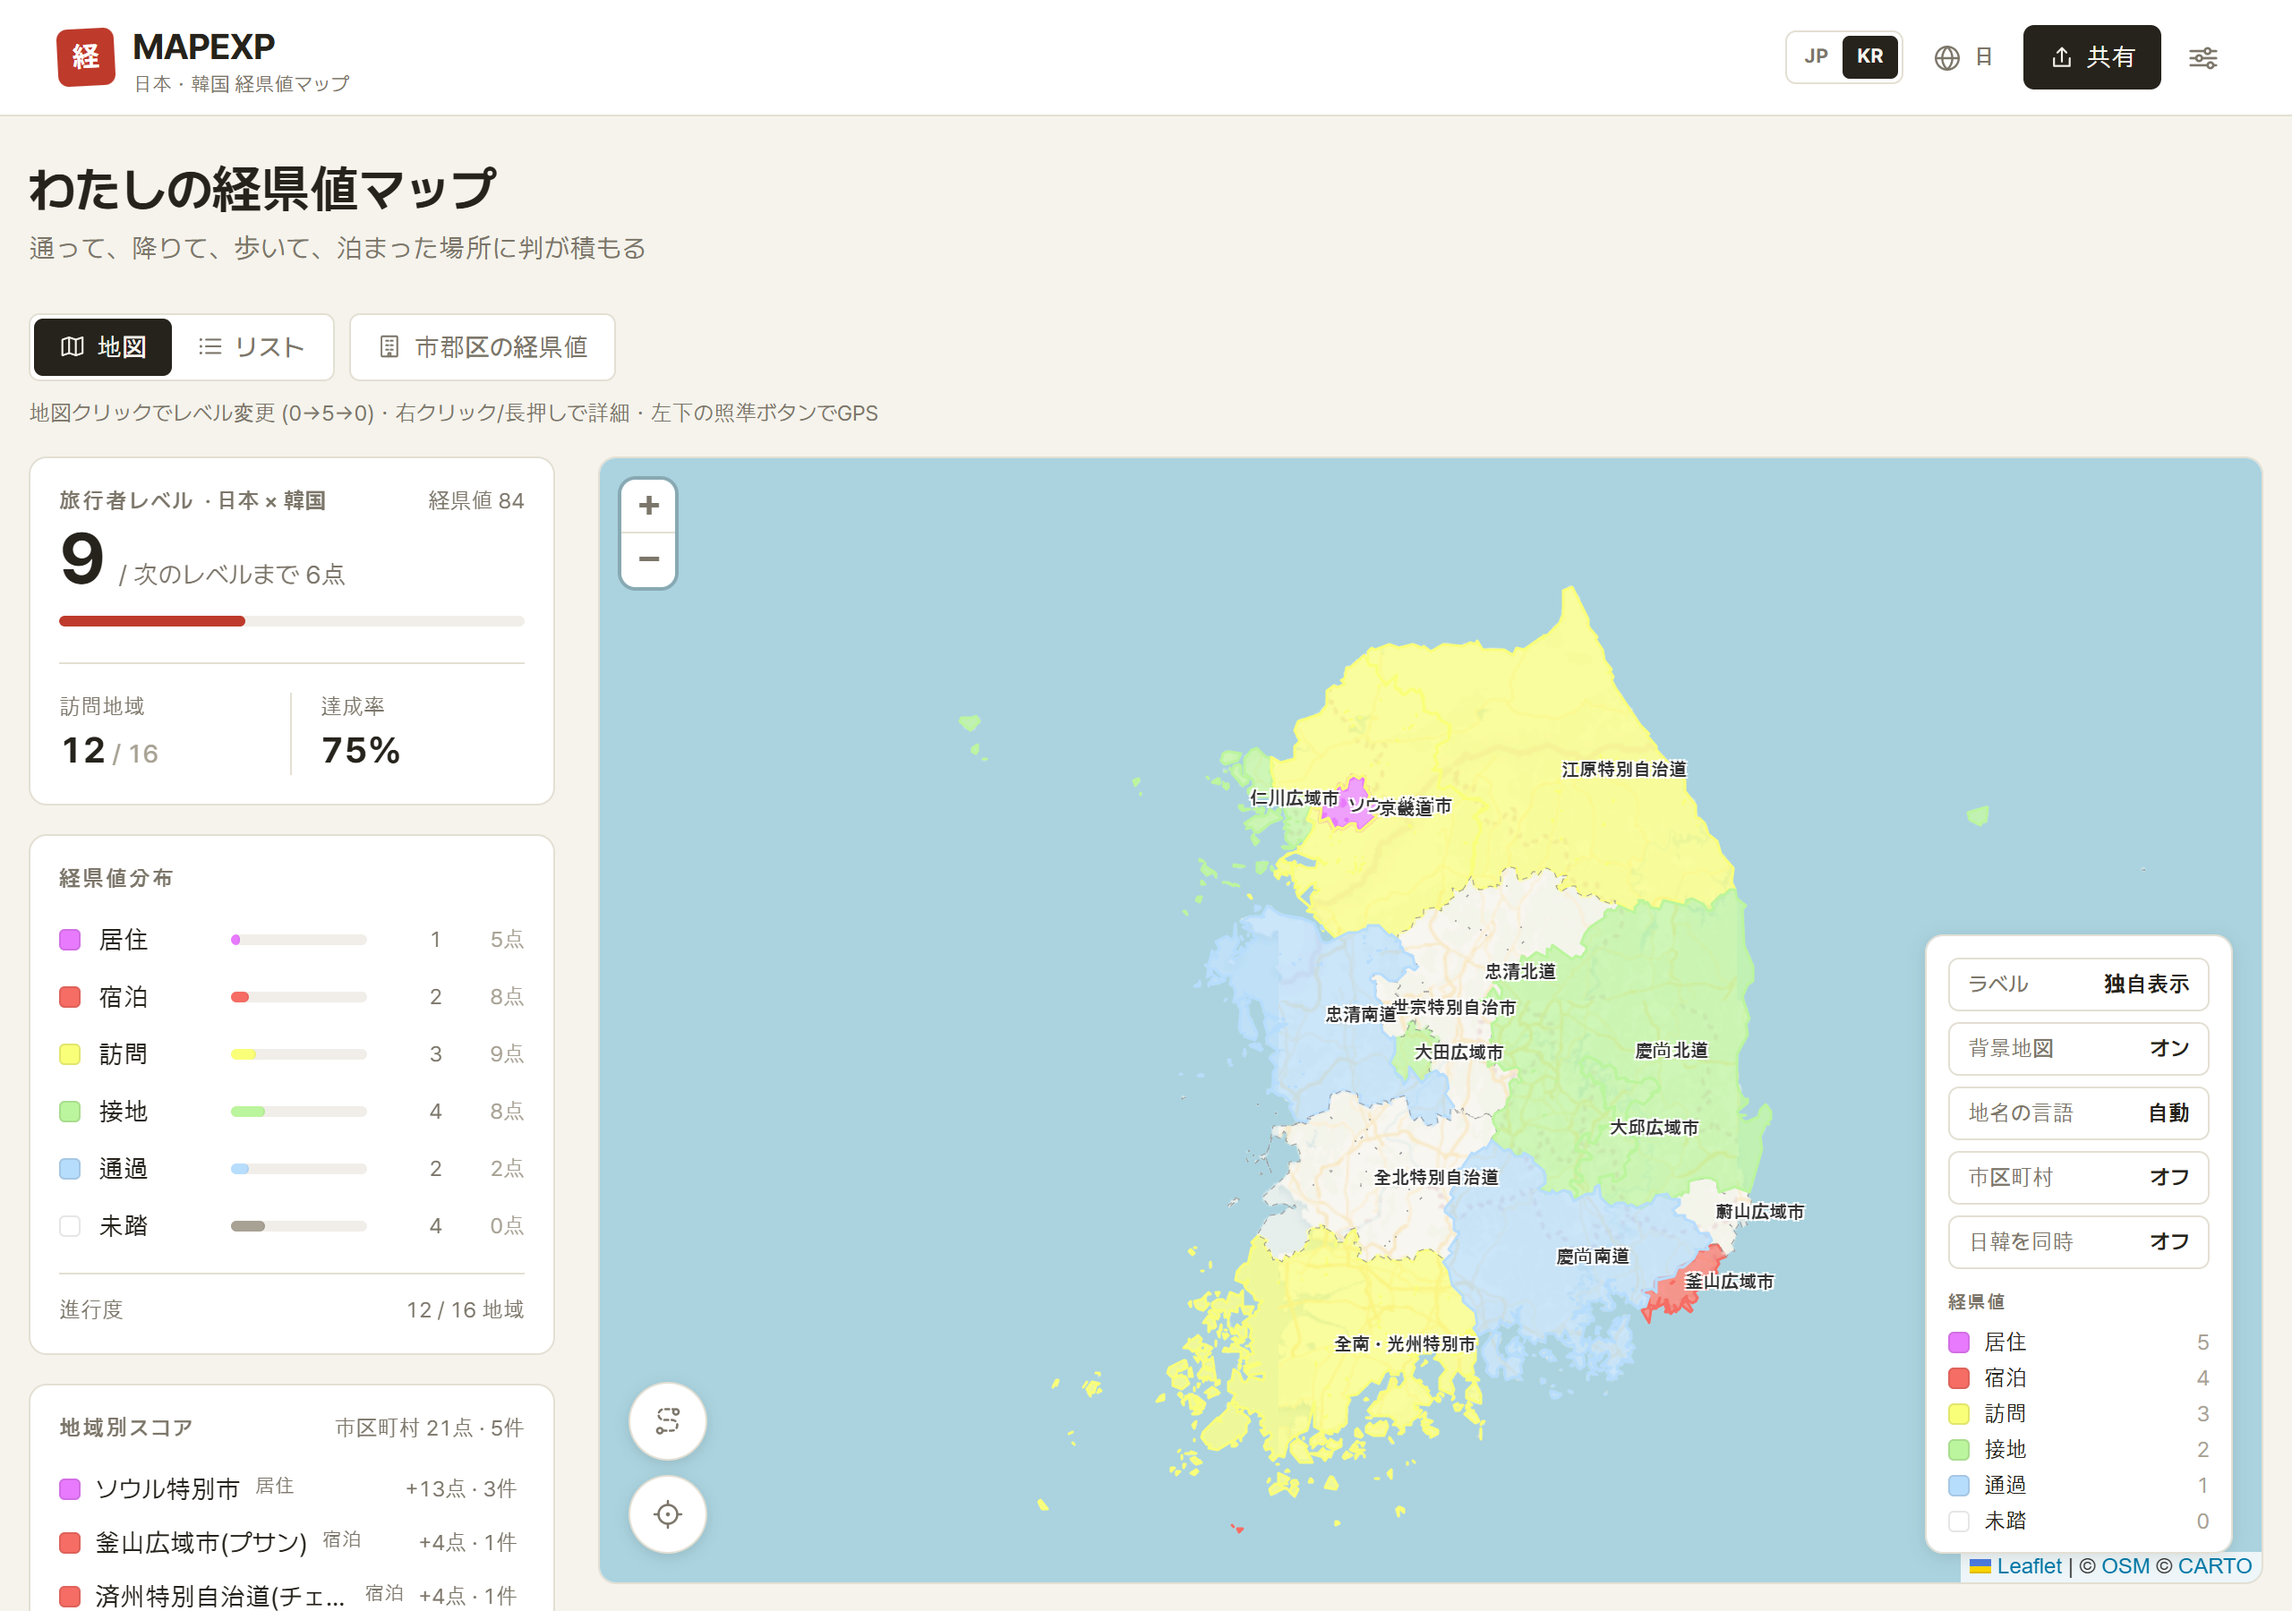
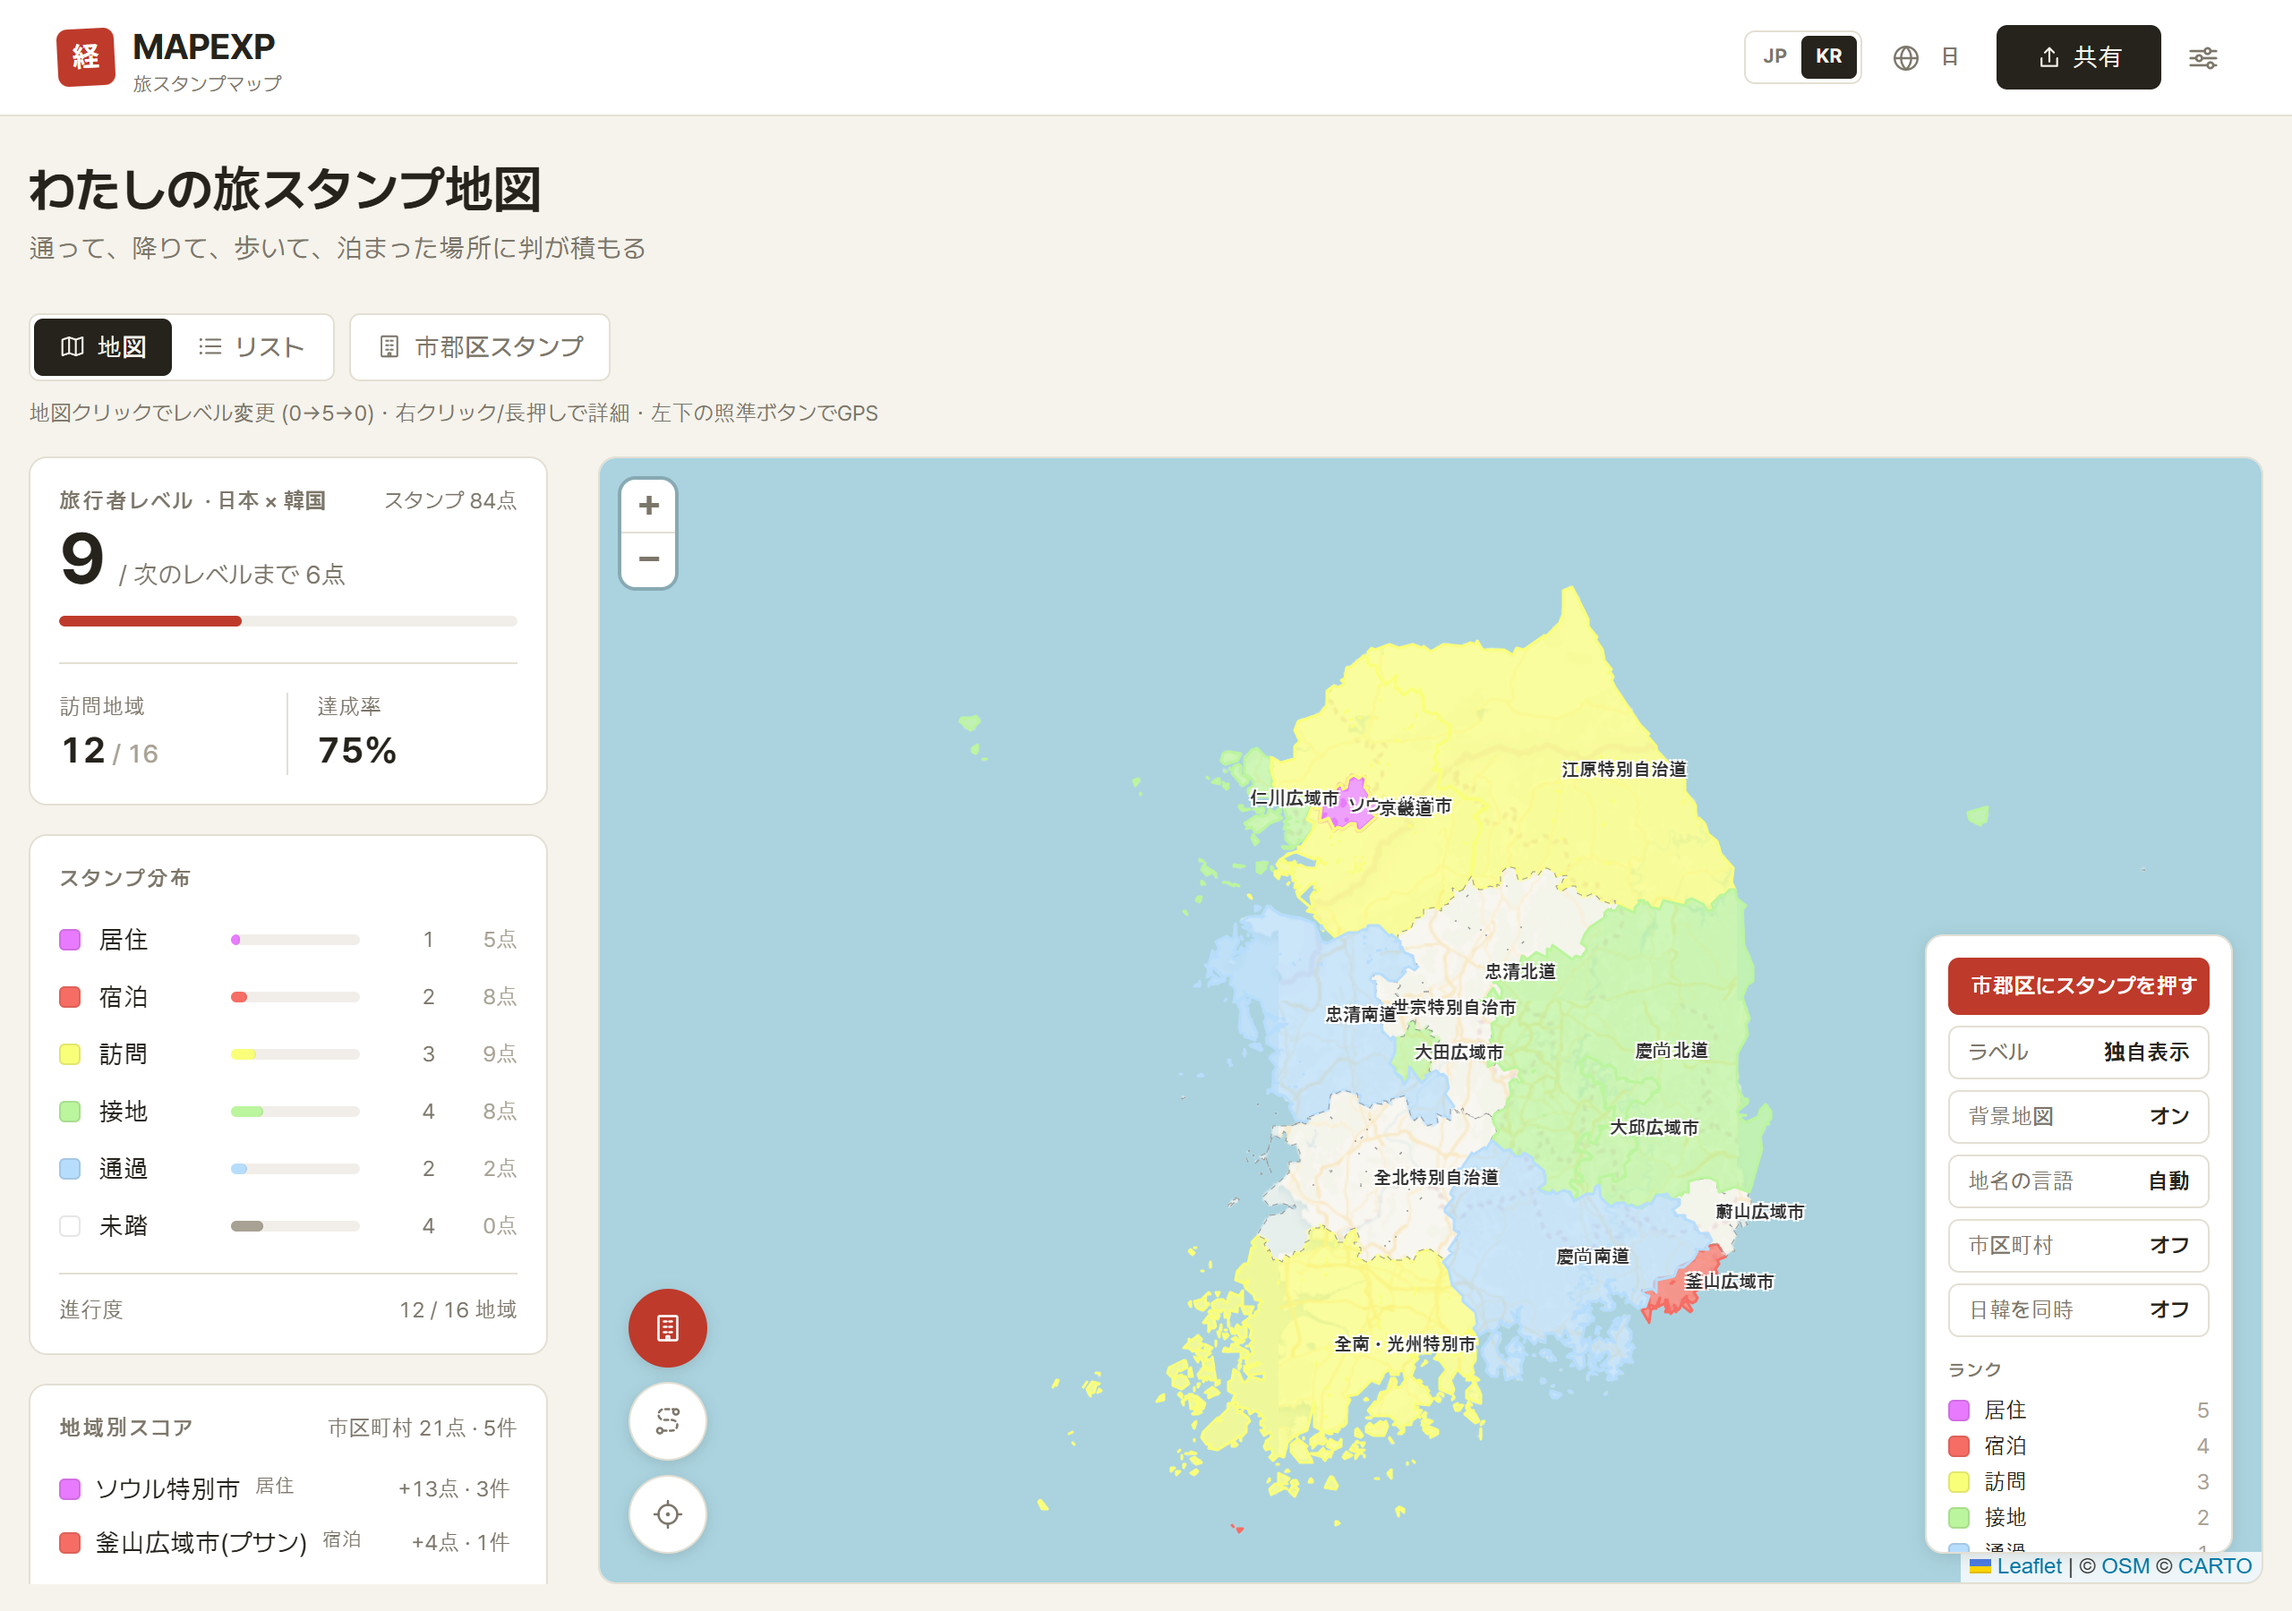
fix: 일본어 UI 용어를 旅スタンプ 계열로 교체 (経県値 상표 존중 - 크레딧의 지시적 사용만 유지)

diff --git a/src/lib/i18n.ts b/src/lib/i18n.ts
@@ -11,9 +11,10 @@ const LANG_INDEX: Record<Lang, number> = { ko: 0, en: 1, ja: 2 }
 
 const STRINGS = {
   // 공통 / 헤더 / 내비게이션
-  // 용어는 언어별 현지화: KR=도장(직관), JA=経県値(원조 문화·검색성), EN=stamps
+  // 용어는 언어별 현지화: KR=도장, JA=スタンプ, EN=stamps
+  // 주의: 経県値는 uub.jp 등록상표 - 서비스명/기능명으로 쓰지 않는다 (푸터의 출처 표기만 지시적 사용으로 유지)
   // 국가 병기는 브랜딩에서 제외 (중립 유지 - 표기 순서 등 불필요한 논쟁 여지 차단)
-  'app.subtitle': ['여행 도장 지도', 'Travel stamp map', '経県値マップ'],
+  'app.subtitle': ['여행 도장 지도', 'Travel stamp map', '旅スタンプマップ'],
   'nav.map': ['지도', 'Map', '地図'],
   'nav.list': ['리스트', 'List', 'リスト'],
   'nav.stats': ['통계', 'Stats', '統計'],
@@ -37,8 +38,8 @@ const STRINGS = {
   'level.3': ['방문', 'Visited', '訪問'],
   'level.4': ['숙박', 'Stayed', '宿泊'],
   'level.5': ['거주', 'Lived', '居住'],
-  // 각 지역 도장의 등급 (툴팁·지도 범례). JA는 경현치 문화 인지를 위해 経県値 유지
-  'level.term': ['등급', 'Grade', '経県値'],
+  // 각 지역 도장의 등급 (툴팁·지도 범례)
+  'level.term': ['등급', 'Grade', 'ランク'],
   // 등급 한 글자 (카드 도장용)
   'level.short.0': ['미', '·', '未'],
   'level.short.1': ['통', 'P', '通'],
@@ -55,15 +56,15 @@ const STRINGS = {
   'level.hint.5': ['살았다 (3개월 이상)', 'Lived there (3+ months)', '住んだ (3ヶ月以上)'],
 
   // 페이지 (데스크톱)
-  'page.title': ['나의 여행 도장', 'My Travel Stamps', 'わたしの経県値マップ'],
+  'page.title': ['나의 여행 도장', 'My Travel Stamps', 'わたしの旅スタンプ地図'],
   'page.tagline': [
     '지나가고, 내리고, 걷고, 묵은 자리마다 도장이 쌓입니다',
     'Every pass, stop, walk, and stay leaves a stamp',
     '通って、降りて、歩いて、泊まった場所に判が積もる',
   ],
-  // '관리'는 관리자 느낌이라 사용자 언어(도장 찍기)로 - ja는 経県値 문화 용어 활용
-  'page.manageMunis': ['{term} 도장', '{term}', '{term}の経県値'],
-  'page.manageMunisLong': ['{term} 도장 찍기', 'Stamp {term}', '{term}の経県値を付ける'],
+  // '관리'는 관리자 느낌이라 사용자 언어(도장 찍기)로
+  'page.manageMunis': ['{term} 도장', '{term}', '{term}スタンプ'],
+  'page.manageMunisLong': ['{term} 도장 찍기', 'Stamp {term}', '{term}にスタンプを押す'],
   'page.guide': [
     '지도 클릭으로 레벨 변경 (0→5→0) · 우클릭/길게 누르기로 상세 설정 · 좌하단 조준 버튼으로 GPS 추적',
     'Click map to cycle level (0→5→0) · Right-click / long-press for details · Use the locate button for GPS',
@@ -72,11 +73,11 @@ const STRINGS = {
 
   // 통계
   'stats.travelerLevel': ['여행자 레벨', 'Traveler Level', '旅行者レベル'],
-  'stats.exp': ['도장 {n}점', '{n} pts', '経県値 {n}'],
+  'stats.exp': ['도장 {n}점', '{n} pts', 'スタンプ {n}点'],
   'stats.toNext': ['/ 다음 레벨까지 {n}점', '/ {n} pts to next level', '/ 次のレベルまで {n}点'],
   'stats.visited': ['방문 지역', 'Visited', '訪問地域'],
   'stats.completion': ['달성률', 'Completion', '達成率'],
-  'stats.distribution': ['도장 분포', 'Distribution', '経県値分布'],
+  'stats.distribution': ['도장 분포', 'Distribution', 'スタンプ分布'],
   'stats.progress': ['진행도', 'Progress', '進行度'],
   'stats.regions': ['{a} / {b} 지역', '{a} / {b} regions', '{a} / {b} 地域'],
   'stats.points': ['{n}점', '{n}pt', '{n}点'],
@@ -198,8 +199,8 @@ const STRINGS = {
   'list.noResult': ["'{q}'에 해당하는 지역이 없습니다", "No regions match '{q}'", '「{q}」に該当する地域がありません'],
 
   // 지역 상세 모달
-  'region.levelLabel': ['도장 등급', 'Stamp grade', '経県値レベル'],
-  'region.levelDesc.0': ['미경현 (스친 적도 없다) - 0점', 'Never been (0 pt)', '未経県 (かすったこともない) - 0点'],
+  'region.levelLabel': ['도장 등급', 'Stamp grade', 'スタンプランク'],
+  'region.levelDesc.0': ['미답 (스친 적도 없다) - 0점', 'Never been (0 pt)', '未踏 (かすったこともない) - 0点'],
   'region.levelDesc.1': ['통과했다 (철도/차 통과, 배 기항. 항공기 제외) - 1점', 'Passed through by rail/car/ship (1 pt)', '通過した (鉄道・車・船。航空機は除く) - 1点'],
   'region.levelDesc.2': ['내렸다 (환승이나 휴게소 휴식 등) - 2점', 'Set foot (transfer, rest stop) (2 pt)', '降り立った (乗換や休憩など) - 2点'],
   'region.levelDesc.3': ['걸었다 (묵었던 적은 없다) - 3점', 'Walked around, never stayed (3 pt)', '歩いた (泊まったことはない) - 3点'],
@@ -270,7 +271,7 @@ const STRINGS = {
   'map.mapLang': ['지명 언어', 'Place names', '地名の言語'],
   'map.langAuto': ['자동', 'Auto', '自動'],
   'map.muniLayer': ['기초 지역', 'Municipalities', '市区町村'],
-  'map.muniReadOnly': ['{term} 도장은 "{term} 도장" 메뉴에서 찍을 수 있어요', 'Stamp {term} in the "{term}" menu', '{term}の判は「{term}の経県値」で押せます'],
+  'map.muniReadOnly': ['{term} 도장은 "{term} 도장" 메뉴에서 찍을 수 있어요', 'Stamp {term} in the "{term}" menu', '{term}の判は「{term}スタンプ」で押せます'],
   'map.label': ['라벨', 'Labels', 'ラベル'],
   'map.labelCustom': ['직접 표시', 'Custom', '独自表示'],
   'map.labelNative': ['지도 원본', 'Map default', '地図標準'],
@@ -294,7 +295,7 @@ const STRINGS = {
   'share.copied': ['공유 링크가 복사되었습니다!', 'Link copied!', 'リンクをコピーしました！'],
   'share.copyFail': ['링크 복사에 실패했습니다.', 'Copy failed.', 'コピーに失敗しました。'],
   'share.native': ['공유하기', 'Share…', '共有…'],
-  'share.shareText': ['내 여행 도장 지도를 확인해보세요!', 'Check out my travel stamp map!', '私の経県値マップを見てください！'],
+  'share.shareText': ['내 여행 도장 지도를 확인해보세요!', 'Check out my travel stamp map!', '私の旅スタンプ地図を見てください！'],
   'share.image': ['이미지 카드 저장', 'Save image card', '画像カードを保存'],
   'share.imageDone': ['이미지 카드를 저장했습니다!', 'Image saved!', '画像を保存しました！'],
   'share.imageFail': ['이미지 생성에 실패했습니다.', 'Image generation failed.', '画像の生成に失敗しました。'],
@@ -333,7 +334,7 @@ const STRINGS = {
   'viewer.exited': ['내 지도로 돌아왔습니다', 'Back to your map', '自分の地図に戻りました'],
 
   // 온보딩 (첫 방문 웰컴 모달: 언어 선택 + 간단 매뉴얼)
-  'onboard.title': ['여행 도장 지도에 오신 것을 환영합니다', 'Welcome to your travel stamp map', '経県値マップへようこそ'],
+  'onboard.title': ['여행 도장 지도에 오신 것을 환영합니다', 'Welcome to your travel stamp map', '旅スタンプマップへようこそ'],
   'onboard.tap': [
     '지역을 탭하면 도장이 찍히고, 탭할 때마다 등급이 올라갑니다',
     'Tap a region to stamp it — each tap raises the grade',
@@ -347,7 +348,7 @@ const STRINGS = {
   'onboard.muni': [
     '더 촘촘하게 — {term} 단위 도장은 "{term} 도장" 메뉴에서 찍습니다',
     'Go deeper — stamp individual {term} from the "{term}" menu',
-    'もっと細かく — {term}単位の判は「{term}の経県値」から押せます',
+    'もっと細かく — {term}単位の判は「{term}スタンプ」から押せます',
   ],
   'onboard.gps': [
     '좌하단 조준 버튼을 켜면 지금 있는 지역을 GPS로 자동 감지합니다',

diff --git a/app/opengraph-image.tsx b/app/opengraph-image.tsx
@@ -2,7 +2,7 @@ import { ImageResponse } from 'next/og'
 import { readFile } from 'fs/promises'
 import { join } from 'path'
 
-export const alt = 'MAPEXP — 나의 경현치 지도'
+export const alt = 'MAPEXP — 나의 여행 도장 지도'
 export const size = { width: 1200, height: 630 }
 export const contentType = 'image/png'
 

diff --git a/README.ja.md b/README.ja.md
@@ -1,4 +1,4 @@
-# MAPEXP — 経県値マップ
+# MAPEXP — 旅スタンプ地図
 
 [한국어](README.md) · [English](README.en.md) · **日本語**
 
@@ -26,9 +26,9 @@
 
 ## 主な機能
 
-- **経県値の記録** — 地域をタップするたびにランクが変化：未踏(0) → 通過(1) → 接地(2) → 訪問(3) → 宿泊(4) → 居住(5)。押し間違いはトーストから元に戻せて、長押しで詳細（メモ・訪問記録）
+- **旅スタンプの記録** — 地域をタップするたびにランクが変化：未踏(0) → 通過(1) → 接地(2) → 訪問(3) → 宿泊(4) → 居住(5)。押し間違いはトーストから元に戻せて、長押しで詳細（メモ・訪問記録）
 - **両国同時ビュー** — 日本と韓国の地図を一画面に表示。旅行者レベルは常に日韓合算＋国別統計
-- **市区町村単位** — 経県値画面（リスト・ミニマップ）で市区町村ごとにスタンプ。「市区町村」トグルで全国を市区町村単位で表示
+- **市区町村単位** — スタンプ画面（リスト・ミニマップ）で市区町村ごとに記録。「市区町村」トグルで全国を市区町村単位で表示
 - **地名の3言語対応** — 日本の市区町村はハングル・ローマ字（総務省の読みに基づく）、韓国の市郡区は漢字＋カタカナで表示。地名の言語はUI言語とは別に選択可能
 - **GPS** — 現在地域（都道府県＋市区町村）を自動検知、移動ルートの記録、訪問の自動記録
   - GPS認証記録は作成後に日時の編集・削除ができません（手動記録は過去日付を自由に入力可）

diff --git a/CHANGELOG.md b/CHANGELOG.md
@@ -2,6 +2,13 @@
 
 ## [Unreleased]
 
+### 변경 (상표 존중)
+
+- **일본어 UI 용어를 経県値 → 旅スタンプ 계열로 교체**: 経県値는 uub.jp의
+  등록상표라 서비스명·기능명으로의 사용을 중단 (타이틀·부제·통계·메뉴 등
+  13곳). 푸터의 개념 원조 크레딧(지시적 사용)은 유지
+- OG 이미지 alt·README 일본어판 제목 동일 적용, 스크린샷 15장 재캡처
+
 ### 기능 (공유 확장)
 
 - **내 지도와 비교(겹쳐보기)**: 공유 지도를 열람할 때 '내 지도와 비교'를
